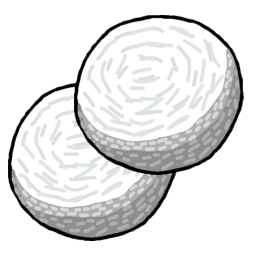
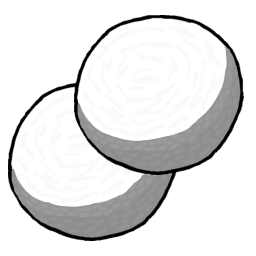
Исправления, новый скин - Капиталист

diff --git a/docs/architecture.md b/docs/architecture.md
@@ -9,7 +9,7 @@
     - Папка `core`: содержит главные классы `Game`, `Loader`, `ItemsDB`, а также `Achievements` (в будущем).
     - Папка `effects`: содержит всевозможные эффекты, в отдельных подпапках.
     - Папка `entity`: содержит основной класс `Entity`, который наследуют `Player` и `Mob`, класс `Effect`, класс `Attack` вместе с его детекторами  (`RayDetector`, `AreaDetector`, ...) и распространёнными формами (`ColorAttack`, ...).
-    - Папка `events`: содержит все режимы игры по мультиплееру (событий) в отдельных подпапках, а также одну папку `common`, в которой лежит всё общее между режимами (чат, ...)
+    - Папка `events`: содержит все режимы игры по мультиплееру (событий) в отдельных подпапках, а также одну папку `common`, в которой лежит всё общее между режимами (чат, ...).
     - Папка `maps` в своих подпапках содержит карты для событий.
     - Папка `menus`: содержит различные меню, такие как:
         - Папка `connect_local`: содержит меню для подключения по локальной сети.
@@ -32,6 +32,19 @@
 Проект может быть в двух состояниях: меню и игра. Поверх них можно открывать *экраны* с помощью метода `Main.open_screen(screen: PackedScene)`. За этими экранами следит `Main`, и при переходе в другое состояние они автоматически удаляются.
 
 Сохранения в игре реализованы через класс `Globals`, а точнее через его методы `set_*()` и `get_*()`. Также для удобства хранения есть также методы `set_controls_*()` и `get_controls_*()` (для хранения настроек управления) и методы `set_setting_*()` и `get_controls_*()` (для хранения остальных настроек).
+
+## Игровой цикл
+
+В физическом кадре происходят:
+- Поллинг `MultiplayerAPI`, т.е. вызовы RPC и синхронизация узлов `MultiplayerSynchronizer`.
+- Основные подсчёты движения, будь то снаряды или сущности.
+- Регистрация урона от снарядов и других атак.
+- Прочие вещи, связанные с предыдущими.
+
+В обычном кадре происходят:
+- Визуальные вещи, такие как поворот оружия в соответствии с направлением прицеливания.
+- Обработка ввода игрока.
+- Прочие вещи, связанные с предыдущими.
 
 ## Разное
 
